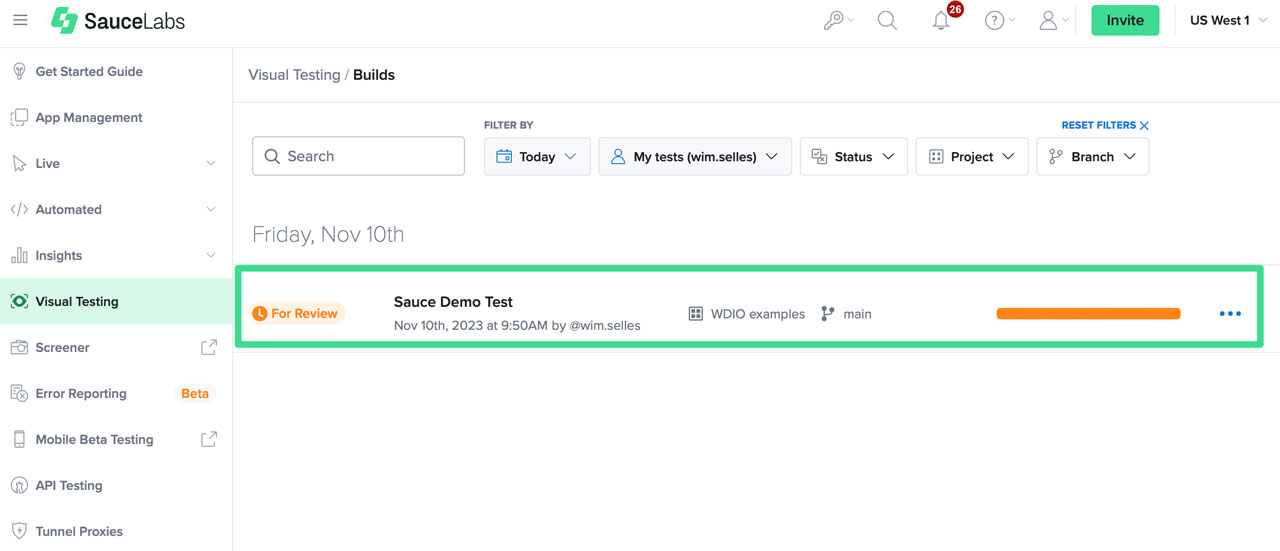
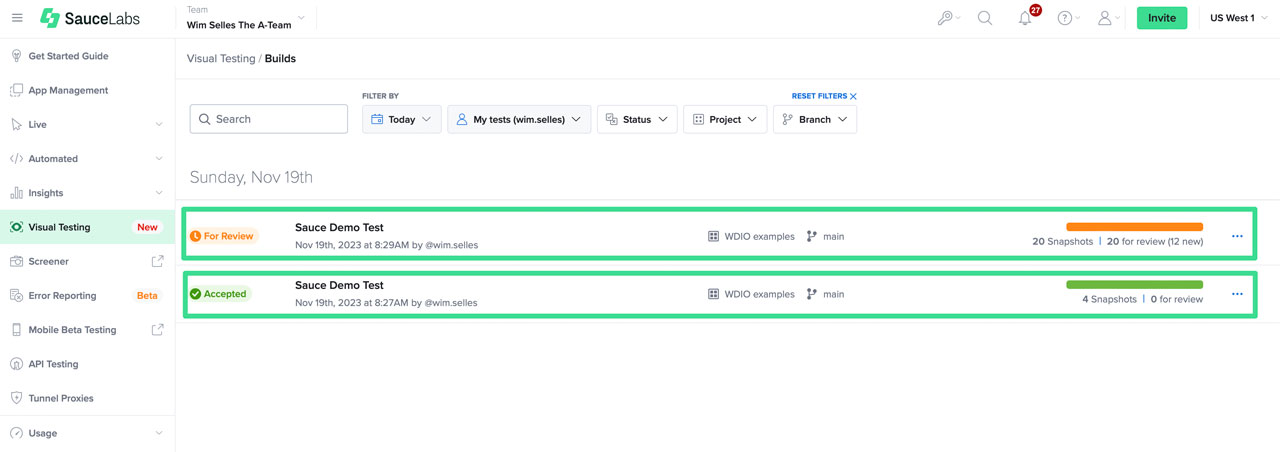
chore: update review page
- explain options in details page
- update flow

diff --git a/docs/visual-testing/workflows/review.md b/docs/visual-testing/workflows/review.md
@@ -35,24 +35,70 @@ Subsequent Test Executions can also generate new baseline snapshots. This can ha
 
 ### Bulk Approve
 
-You can bulk approve all the snapshots in a build by clicking on the "More options"-button, see below.
+You can bulk approve all the snapshots in a build by clicking on the "More options"-button from the "Build"-page
 
-<img src={useBaseUrl('/img/sauce-visual/build-bulk-accept.jpg')} alt="Build overview bulk accepts"/>
+<img src={useBaseUrl('/img/sauce-visual/build-bulk-accept.jpg')} alt="Build page bulk accepts"/>
+
+or the "Build > Build Details"-page.
+
+<img src={useBaseUrl('/img/sauce-visual/build-details-bulk-accept.jpg')} alt="Build details page bulk accepts"/>
 
 #### Accept All
+
+<img src={useBaseUrl('/img/sauce-visual/bulk-accept-all.jpg')} alt="Bulk Accept All"/>
 
 Using this options will accept **all** snapshots and will use them as the new baseline. The following snapshot statuses will be affected:
 
 - all snapshots that don't have a baseline image, marked as "For Review".
 - all snapshots that have a baseline image where Sauce Visual detected a difference. These snapshots can only come from [Subsequent Test Executions](#subsequent-test-execution-review) and are also marked as "For Review".
+- all snapshots that have previously been accepted and are marked as "Approved".
+
+The amount in "Accept All (_number_)" will show you how many snapshots will be affected.
 
 #### Accept Only New
 
-Using this option will only accept all snapshots that **don't have a baseline image** (marked as "For Review"). If this happens during a [Subsequent Test Executions](#subsequent-test-execution-review) where we also detected visual differences, then we don't accept those snapshots.
+<img src={useBaseUrl('/img/sauce-visual/bulk-accept-only-new.jpg')} alt="Bulk Accept Only New"/>
+
+Using this option will only accept all snapshots that **don't have a baseline image** (marked as "For Review").
+
+If this happens during a [Subsequent Test Executions](#subsequent-test-execution-review) where we also detected visual differences, then we don't accept those snapshots. This is because we want you to review and approve the visual differences first.
+
+The amount in "Accept Only New (_number_)" will show you how many snapshots will be affected.
 
 ### Single Approve
 
-You can also review and approve a single snapshot by clicking on the Build-row. This will take you to the Build Details page where you can review and approve the snapshots by using the "Accept" button.
+Snapshots can be reviewed from the "Build Details"-page or the "Diff Review"-page.
+
+#### Build Details-page
+
+Open the "Build Details"-page by clicking on the Build-row. You will see a list of all the snapshots that were generated during the test execution and match the status that has been selected in the "Filter"-dropdown.
+
+<img src={useBaseUrl('/img/sauce-visual/build-details-overview.jpg')} alt="Bulk Details Overview"/>
+
+When the status "For Review" is selected, you can review and approve the snapshots by using the "Accept"-button.
+
+<img src={useBaseUrl('/img/sauce-visual/build-details-accept.jpg')} alt="Review and approve baseline images"/>
+
+##### Grouping and Filtering
+
+The list of snapshots can be grouped and filtered by using the "Group by"- and "Filter"-dropdowns.
+
+<img src={useBaseUrl('/img/sauce-visual/build-details-grouping-filtering.jpg')} alt="Build Details Grouping and Filtering"/>
+
+The grouping can be done by
+
+| Group by            | Description                                                                                          | Determined by                                             |
+| ------------------- | ---------------------------------------------------------------------------------------------------- | --------------------------------------------------------- |
+| Suite Name          | The Name of the Suite/Class                                                                          | This will automatically be determined by the used binding |
+| Test Name           | The Name of the Test that holds the visual checks                                                    | This will automatically be determined by the used binding |
+| Device              | The Device that has been used to take the snapshot. This can be a Desktop browser or a Mobile Device | This will automatically be determined by the used binding |
+| OS                  | The OS that has been used to take the snapshot.                                                      | This will automatically be determined by the used binding |
+| Storybook (Depth 1) | The name of the Storybook library you used.                                                          | This will automatically be determined by the used binding |
+| Storybook (Depth 2) | The name of the Storybook component that was used to create the snapshot.                            | This will automatically be determined by the used binding |
+
+#### Diff Review-page
+
+You can also review and approve a single snapshot by clicking on a thumbnail from the "Build Details-page. This will take you to the Diff Review page where you can review and approve the snapshots by using the "Accept" button.
 
 <img src={useBaseUrl('/img/sauce-visual/build-details-single-baseline.jpg')} alt="Review and approve a single baseline images"/>
 
